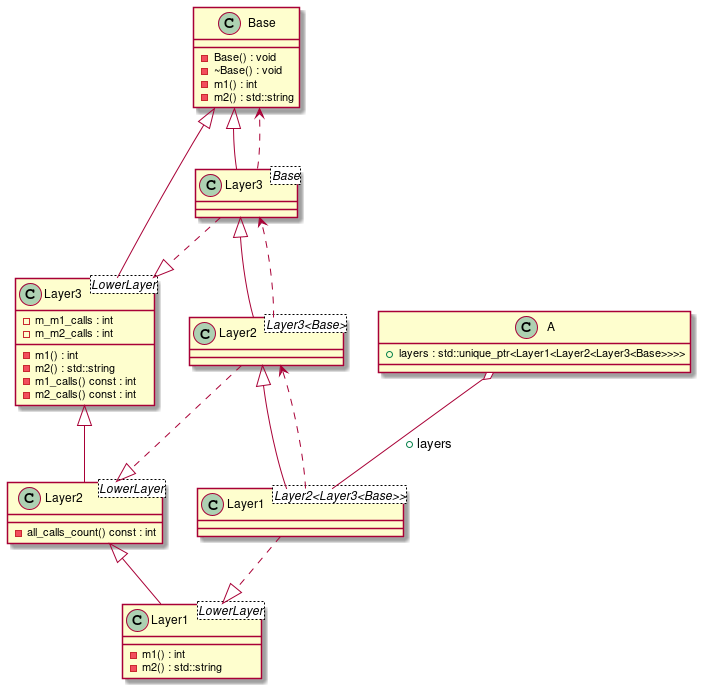
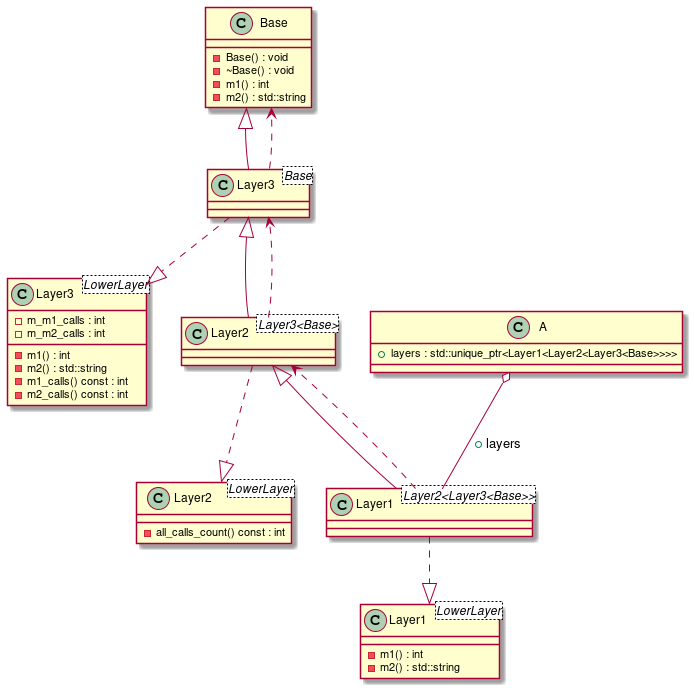
Updated test cases documentation

diff --git a/docs/test_cases/t00019.md b/docs/test_cases/t00019.md
@@ -14,11 +14,6 @@ diagrams:
     include:
       namespaces:
         - clanguml::t00019
-    plantuml:
-      after:
-        - '@A(Base) <|-- @A(Layer3<LowerLayer>)'
-        - '@A(Layer3<LowerLayer>) <|-- @A(Layer2<LowerLayer>)'
-        - '@A(Layer2<LowerLayer>) <|-- @A(Layer1<LowerLayer>)'
 
 ```
 ## Source code
